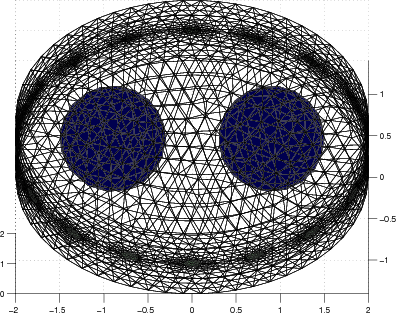
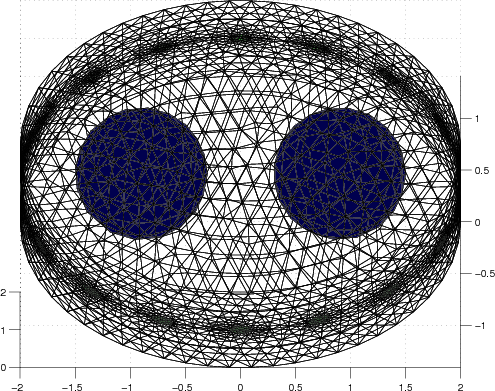
complete pretty figures
git-svn-id: svn+ssh://svn.code.sf.net/p/eidors3d/code/trunk@2799 82006732-fb7e-4a22-9f28-86a212cce563

diff --git a/htdocs/tutorial/GREIT/mk_GREIT_mat_ellip01.m b/htdocs/tutorial/GREIT/mk_GREIT_mat_ellip01.m
@@ -12,4 +12,4 @@ img.elem_data(midx{2}) = 0.5; % Lung regions
 vi = fwd_solve(img);
 
 show_fem(img); view(0,70);
-print_convert mk_GREIT_mat_ellip01a.png '-density 60'
+print_convert mk_GREIT_mat_ellip01a.png '-density 75'
